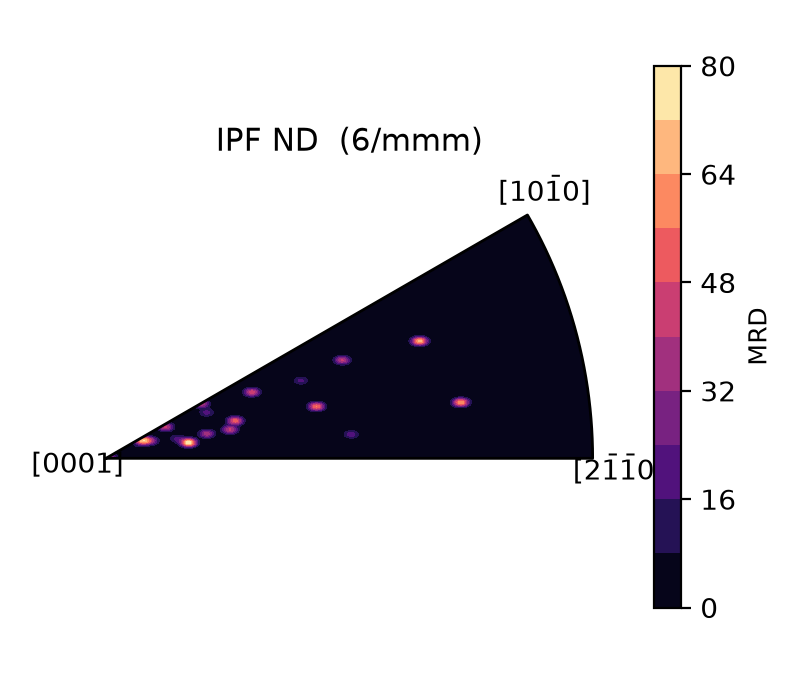
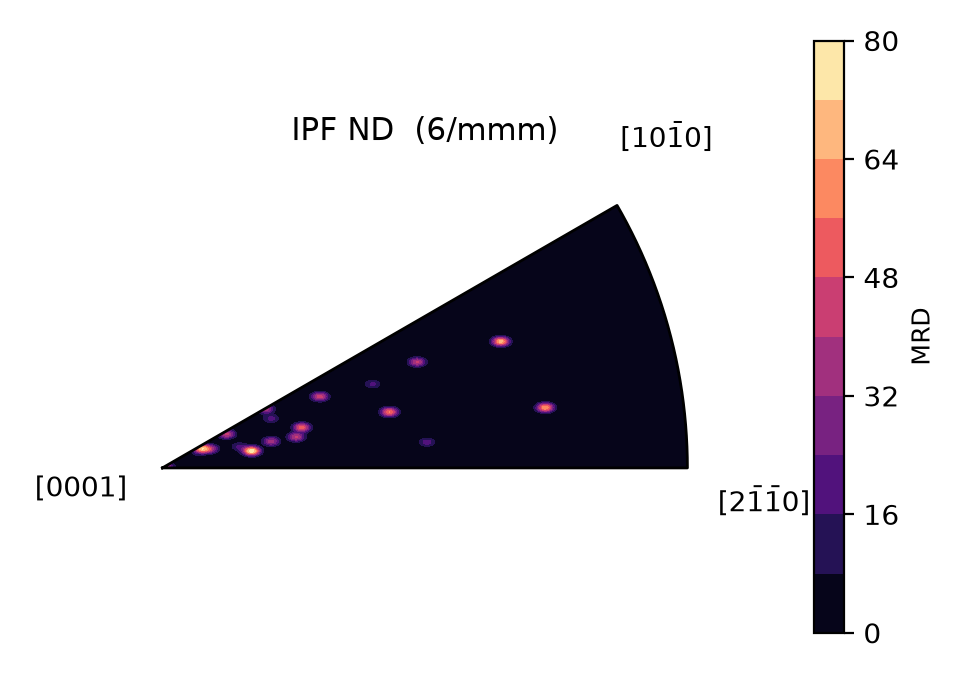
Keep the coordinate triad off the scene, and the sector labels off the data
The triad was drawn over the cell wireframe. How much clearance it needs
depends on the camera, the aspect ratio and which atoms are hidden, so the
renderer now measures instead of guessing: it draws small probe images at
increasing framing margins and takes the first one whose corner is empty. A
perspective view of a cut-away cell needs 1.15, an orthographic view straight
down an axis needs about 1.47, and render_result reports what it chose through
the new info dictionary.

tests/test_tripod.py asserts the overlap is zero in rendered pixels, by
rendering the same scene with and without the triad at the same framing and
intersecting the triad's ink with what was already there.

A layout check over the library's own figures also found the corner labels of
the orientation density plot sitting on the contours: it had its own copy of
the label placement, which the colour key had already outgrown. Both now share
place_vertex_labels, and the density figure is wider so the labels clear the
colour bar as well.

Claude-Session: https://claude.ai/code/session_01VPD6XFxmLsiuawD9WxH42w

diff --git a/ptmipf/render.py b/ptmipf/render.py
@@ -13,7 +13,15 @@ from .analysis import DEFAULT_OTHER_COLOR, ipf_color_modifier
 from .frames import SampleFrame
 from .structures import DEFAULT_STRUCTURES, get_structure
 
-__all__ = ["render_ipf", "render_result"]
+__all__ = ["render_ipf", "render_result", "TRIPOD_MARGIN"]
+
+#: Framing used for a triad when the corner is already clear.
+TRIPOD_MARGIN = 1.15
+#: Never pull the camera back further than this to make room for a triad.
+MAX_TRIPOD_MARGIN = 1.7
+#: Fraction of the image, from the lower left corner, that a triad occupies.
+#: Measured from rendered images, with room for the axis labels around it.
+TRIPOD_BOX = (0.23, 0.21)
 
 
 def render_ipf(
@@ -164,6 +172,44 @@ def _tripod_overlay(frame, labels=("rd", "td", "nd"), size: float = 0.11):
     return tripod
 
 
+def _corner_is_clear(image_path, box=TRIPOD_BOX, threshold: float = 0.97) -> bool:
+    """True when the lower left corner of a rendered image is empty.
+
+    The triad is drawn there, so anything already in that corner would end up
+    underneath it.  Checking the rendered pixels is the only reliable test:
+    the silhouette of a cell depends on the camera, the aspect ratio and
+    whichever atoms are hidden.  The threshold is loose enough to catch a cell
+    wireframe that antialiasing has faded to pale grey in the probe.
+    """
+    try:
+        from PIL import Image
+    except ImportError:  # pragma: no cover - Pillow ships with matplotlib
+        return True
+    with Image.open(image_path) as handle:
+        pixels = np.asarray(handle.convert("L"), dtype=float) / 255.0
+    height, width = pixels.shape
+    corner = pixels[int(height * (1.0 - box[1])) :, : int(width * box[0])]
+    return bool(corner.min() >= threshold)
+
+
+def _margin_clearing_the_triad(render_probe, start=TRIPOD_MARGIN) -> float:
+    """Smallest framing that leaves the triad corner empty.
+
+    *render_probe* draws a small image at a given margin; a few of those cost
+    far less than a figure that has to be redrawn by hand.
+    """
+    import tempfile
+
+    margin = start
+    while margin <= MAX_TRIPOD_MARGIN:
+        with tempfile.NamedTemporaryFile(suffix=".png") as probe:
+            render_probe(margin, probe.name)
+            if _corner_is_clear(probe.name):
+                return margin
+        margin += 0.08
+    return MAX_TRIPOD_MARGIN
+
+
 def _make_renderer(name: str):
     from ovito import vis
 
@@ -190,6 +236,8 @@ def render_result(
     show_cell: bool = True,
     tripod: bool = False,
     tripod_axes=("rd", "td", "nd"),
+    margin: float | None = None,
+    info: dict | None = None,
 ):
     """Render an :class:`~ptmipf.analysis.IPFResult` that has already been computed.
 
@@ -250,6 +298,30 @@ def render_result(
             camera_dir=tuple(float(c) for c in camera_dir),
         )
         viewport.zoom_all(size=size)
+        fitted_fov = viewport.fov
+
+        scene_margin = margin or 1.0
+        if tripod and margin is None:
+            # Pull the camera back until the triad's corner is empty, measuring
+            # small probe renders rather than guessing a fixed number: how much
+            # room is needed depends on the camera, the aspect and what is hidden.
+            def probe(candidate, path):
+                viewport.fov = fitted_fov * candidate
+                probe_width = 480
+                viewport.render_image(
+                    filename=path,
+                    size=(probe_width, max(1, int(probe_width * size[1] / size[0]))),
+                    renderer=_make_renderer("opengl"),
+                )
+
+            try:
+                scene_margin = _margin_clearing_the_triad(probe)
+            except Exception:
+                scene_margin = TRIPOD_MARGIN
+
+        viewport.fov = fitted_fov * float(scene_margin)
+        if info is not None:
+            info["margin"] = float(scene_margin)
         if tripod:
             viewport.overlays.append(_tripod_overlay(result.frame, tripod_axes))
         for name in (["tachyon", "opengl"] if renderer == "auto" else [renderer]):

diff --git a/tests/test_tripod.py b/tests/test_tripod.py
@@ -1,0 +1,89 @@
+"""The coordinate triad must not be drawn on top of the scene.
+
+The overlap is measured in rendered pixels rather than judged by eye: render
+the same scene with and without the triad at the same framing, and any pixel
+the triad changed must not be a pixel that had something in it.
+"""
+
+import numpy as np
+import pytest
+
+pytest.importorskip("ovito")
+PIL = pytest.importorskip("PIL.Image")
+
+from ptmipf.analysis import analyse  # noqa: E402
+from ptmipf.render import MAX_TRIPOD_MARGIN, TRIPOD_MARGIN, render_result  # noqa: E402
+
+
+@pytest.fixture(scope="module")
+def result(tmp_path_factory):
+    ase_build = pytest.importorskip("ase.build")
+    ase_io = pytest.importorskip("ase.io")
+    atoms = ase_build.bulk("Mg", "hcp", a=3.2094, c=5.2108).repeat((9, 9, 9))
+    path = tmp_path_factory.mktemp("tripod") / "mg.xyz"
+    ase_io.write(str(path), atoms, format="extxyz")
+    return analyse(str(path), direction="z", structures=("hcp",))
+
+
+def _image(path):
+    with PIL.open(path) as handle:
+        return np.asarray(handle.convert("RGB"), dtype=float) / 255.0
+
+
+def _overlap_pixels(result, tmp_path, size, **kwargs):
+    """Triad pixels that land on something already drawn."""
+    info = {}
+    with_triad = tmp_path / "on.png"
+    without = tmp_path / "off.png"
+    render_result(result, with_triad, tripod=True, size=size, info=info, **kwargs)
+    # Same framing, so the only difference between the two is the triad itself.
+    render_result(result, without, tripod=False, size=size, margin=info["margin"], **kwargs)
+
+    on, off = _image(with_triad), _image(without)
+    triad = np.abs(on - off).max(axis=2) > 0.02
+    content = (off.min(axis=2) < 0.97) & ~triad
+    assert triad.sum() > 100, "the triad was not drawn at all"
+    return int((triad & content).sum()), info["margin"]
+
+
+@pytest.mark.parametrize(
+    "name,size,kwargs",
+    [
+        ("perspective", (500, 420), {}),
+        ("down z", (500, 420), {"camera_dir": (0, 0, -1), "perspective": False}),
+        ("along x", (500, 420), {"camera_dir": (-1, 0, 0), "perspective": False}),
+        ("wide", (700, 300), {}),
+    ],
+)
+def test_triad_does_not_sit_on_the_scene(result, tmp_path, name, size, kwargs):
+    overlap, margin = _overlap_pixels(result, tmp_path, size, hide_other=True, **kwargs)
+    assert overlap == 0, f"{name}: {overlap} triad pixels land on the scene"
+    assert TRIPOD_MARGIN <= margin <= MAX_TRIPOD_MARGIN
+
+
+def test_framing_is_only_widened_when_it_has_to_be(result, tmp_path):
+    """A view that fills the frame needs more room than one that does not."""
+    loose, tight = {}, {}
+    render_result(result, tmp_path / "a.png", tripod=True, size=(500, 420), info=loose)
+    render_result(
+        result,
+        tmp_path / "b.png",
+        tripod=True,
+        size=(500, 420),
+        camera_dir=(0, 0, -1),
+        perspective=False,
+        info=tight,
+    )
+    assert loose["margin"] <= tight["margin"]
+
+
+def test_margin_can_be_set_by_hand(result, tmp_path):
+    info = {}
+    render_result(result, tmp_path / "c.png", tripod=True, size=(300, 260), margin=1.6, info=info)
+    assert info["margin"] == 1.6
+
+
+def test_no_triad_means_no_extra_framing(result, tmp_path):
+    info = {}
+    render_result(result, tmp_path / "d.png", tripod=False, size=(300, 260), info=info)
+    assert info["margin"] == 1.0

diff --git a/ptmipf/legend.py b/ptmipf/legend.py
@@ -79,6 +79,32 @@ def _sector_edge_points(laue: LaueGroup, n: int = 200) -> np.ndarray:
     return np.vstack(segments)
 
 
+def place_vertex_labels(ax, laue: LaueGroup, fontsize: int = 11) -> None:
+    """Label the sector corners, clear of the sector itself.
+
+    Shared by the colour key and the orientation density plot so that both keep
+    the labels off the data; a layout check on the density plot found them
+    sitting on the contours when each drew its own.
+    """
+    vx, vy = stereographic(laue.sector_vertices)
+    center = np.array([vx.mean(), vy.mean()])
+    span = max(vx.max() - vx.min(), vy.max() - vy.min())
+    gap = 0.16 * span
+    for x, y, label in zip(vx, vy, laue.vertex_labels):
+        offset = np.array([x, y]) - center
+        norm = np.linalg.norm(offset)
+        offset = offset / norm * gap if norm > 1e-9 else np.array([0.0, gap])
+        ax.text(
+            x + offset[0],
+            y + offset[1],
+            _format_indices(label),
+            ha="center",
+            va="center",
+            fontsize=fontsize,
+            zorder=3,
+        )
+
+
 def ipf_legend(
     laue,
     direction_label: str = "",
@@ -131,25 +157,7 @@ def ipf_legend(
     ex, ey = stereographic(edge)
     ax.plot(ex, ey, color="black", linewidth=1.0, zorder=2)
 
-    vx, vy = stereographic(laue.sector_vertices)
-    center = np.array([vx.mean(), vy.mean()])
-    # Push the labels clear of the sector: they sit outside the coloured area
-    # with a visible gap, never touching the boundary.
-    span = max(vx.max() - vx.min(), vy.max() - vy.min())
-    gap = 0.16 * span
-    for x, y, label in zip(vx, vy, laue.vertex_labels):
-        offset = np.array([x, y]) - center
-        norm = np.linalg.norm(offset)
-        offset = offset / norm * gap if norm > 1e-9 else np.array([0.0, gap])
-        ax.text(
-            x + offset[0],
-            y + offset[1],
-            _format_indices(label),
-            ha="center",
-            va="center",
-            fontsize=11,
-            zorder=3,
-        )
+    place_vertex_labels(ax, laue)
 
     title = " ".join(part for part in (structure_label, laue.name) if part)
     if direction_label:

diff --git a/ptmipf/polefigure.py b/ptmipf/polefigure.py
@@ -11,7 +11,7 @@ import re
 
 import numpy as np
 
-from .legend import _format_indices, _sector_edge_points
+from .legend import _format_indices, _sector_edge_points, place_vertex_labels
 from .projections import equal_area, stereographic, upper_hemisphere
 from .symmetry import LaueGroup, get_laue_group
 
@@ -355,30 +355,20 @@ def ipf_density(
     mean = np.nanmean(density)
     mrd = density / mean if mean > 0 else density
 
-    fig, ax = plt.subplots(figsize=(4.0, 3.4))
+    # Wide enough, with the bar pushed out, that the corner labels of the
+    # sector do not run into the colour bar.
+    fig, ax = plt.subplots(figsize=(4.8, 3.4))
     contour = ax.contourf(gx, gy, mrd, levels=contours, cmap=cmap, zorder=2)
-    bar = fig.colorbar(contour, ax=ax, fraction=0.046, pad=0.08)
+    bar = fig.colorbar(contour, ax=ax, fraction=0.046, pad=0.16)
     bar.set_label("MRD", fontsize=9)
     ax.plot(ex, ey, color="black", lw=1.0, zorder=3)
 
-    vx, vy = stereographic(laue.sector_vertices)
-    centroid = np.array([vx.mean(), vy.mean()])
-    for px, py, label in zip(vx, vy, laue.vertex_labels):
-        offset = np.array([px, py]) - centroid
-        offset = offset / np.linalg.norm(offset) * 0.06
-        ax.text(
-            px + offset[0],
-            py + offset[1],
-            _format_indices(label),
-            ha="center",
-            va="center",
-            fontsize=10,
-        )
+    place_vertex_labels(ax, laue, fontsize=10)
 
     ax.set_title(f"IPF {frame.label(direction)}  ({laue.name})", fontsize=11, pad=18)
     ax.set_aspect("equal")
     ax.axis("off")
-    ax.margins(0.12)
+    ax.margins(0.26)
     fig.tight_layout()
     if filename is not None:
         fig.savefig(filename, dpi=dpi)
